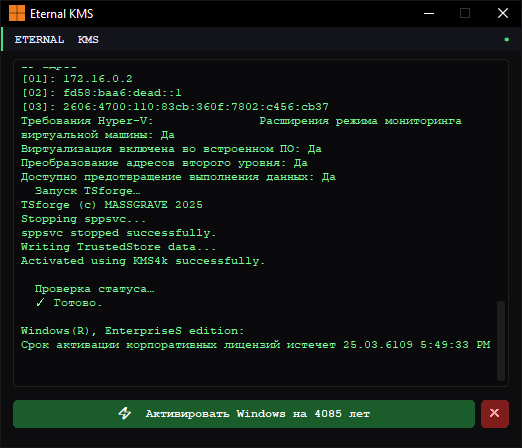
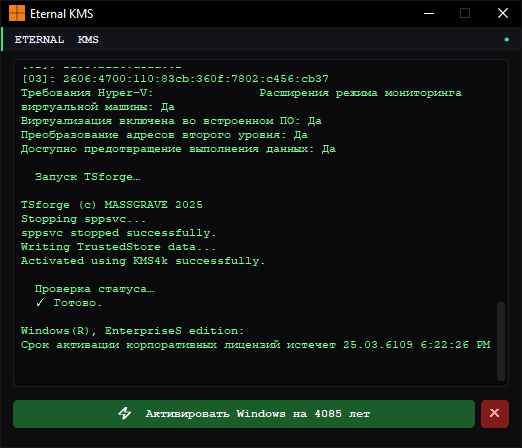
Add files via upload

diff --git a/main.py b/main.py
@@ -176,7 +176,7 @@ class WindowsActivator(ctk.CTk):
     def _start_activation(self):
         self.activate_btn.configure(state="disabled")
         self._set_status("working")
-        self.log("  Запуск TSforge…")
+        self.log("\n  Запуск TSforge…\n")
         cmd = f'"{self.tsforge_exe}" /kms4k'
         self.run_command(cmd)
 
